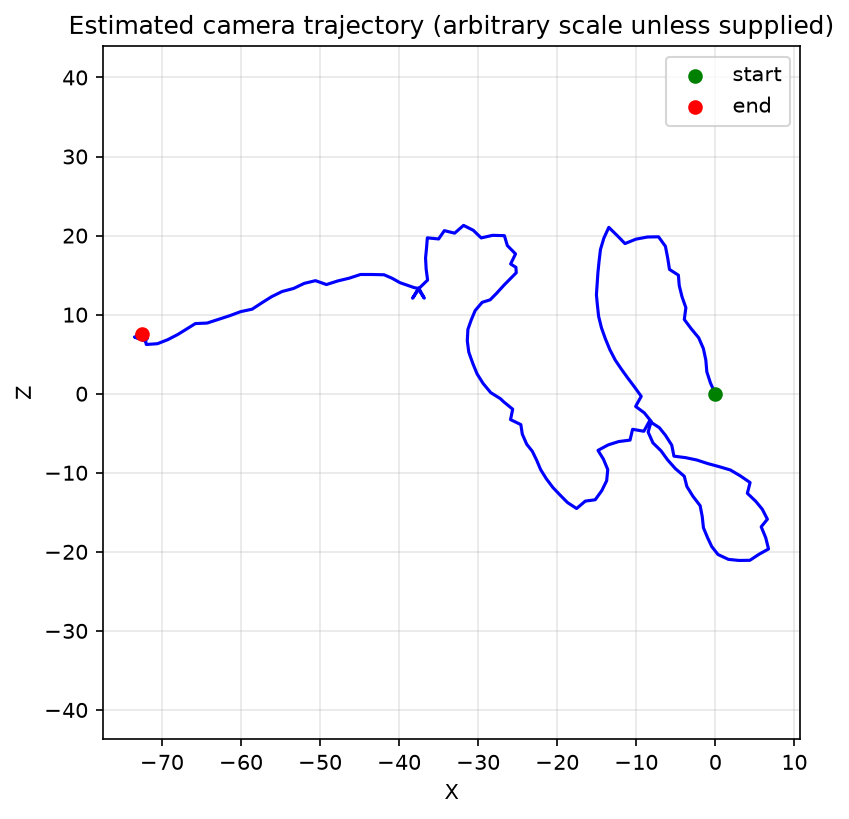
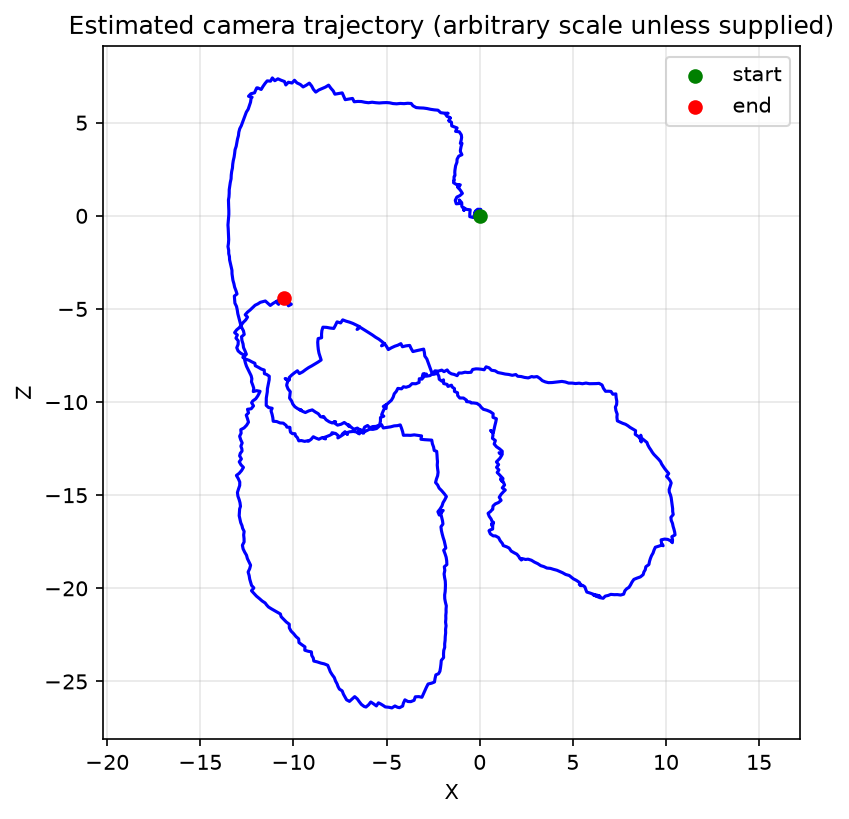
Loops are somewhat recognized
This is a rough draft that manages to retain decent performance and quality (Though it suffers from lag spikes)

diff --git a/orb-slam/monocular_vo_xFeat.py b/orb-slam/monocular_vo_xFeat.py
@@ -8,8 +8,30 @@ import numpy as np
 import matplotlib.pyplot as plt
 import torch
 from accelerated_features.modules.xfeat import XFeat
+#A KeyFrame, storing all the data from a single frame.
+class KeyFrame:
+    def __init__(
+        self,
+        id,
+        frame_number,
+        image,
+        pose_R,
+        pose_T,
+        keypoints,
+        descriptors,
+    ):
+        self.id = id
 
+        self.frame_number = frame_number
 
+        self.image = image.copy()
+
+        self.keypoints = keypoints
+
+        self.descriptors = descriptors
+        self.global_descriptor = descriptors.mean(dim=0) #Gets the mean of the descriptors
+        self.pose_R = pose_R.copy() #Rotation
+        self.pose_T = pose_T.copy() #Translation
 # --------------------------------------------------------------------------- #
 # Frame source abstraction: webcam index, video file, or folder of images
 # --------------------------------------------------------------------------- #
@@ -88,6 +110,10 @@ class MonocularVO:
         self.prev_kp = None
         self.prev_feats = None
 
+        self.prev_keyframe = None
+        self.keyframes = [] #stores all the keyframes in this list, to be looked out during loop closure checks
+        self.next_keyframe_id = 0
+
         self.cur_R = np.eye(3)
         self.cur_t = np.zeros((3, 1))
 
@@ -142,7 +168,7 @@ class MonocularVO:
     def _detect_xFeat(self, frame):
         output = self.xfeat.detectAndCompute(frame, top_k=4096)[0]
         kpts = self._keypoints_to_cv2(output['keypoints'])
-        return kpts, output['descriptors']
+        return kpts, output
     
     def _match_xFeat(self, feats0, feats1):
         match = self.xfeat.match(feats0, feats1)
@@ -160,20 +186,84 @@ class MonocularVO:
             if m.distance < self.ratio * n.distance:
                 good.append(m)
         return good
+    def _create_keyframe(self, frame_count, frame,kp,feats):
+        kf = KeyFrame(self.next_keyframe_id,frame_count,frame,self.cur_R,self.cur_t,kp,feats)
+        self.keyframes.append(kf)
+        self.prev_keyframe = kf
+        self.next_keyframe_id += 1
+    def _process_keyframes(self,n_candidates = 5, similarity_thresh = 0.85): #Compares and returns the best "candidates" for loop closure with a basic comparison algorithm as to not completely overload a system
+        current_frame = self.prev_keyframe
+        candidates = []
 
-    def process_frame(self, frame, scale=1.0):
+        for kf in self.keyframes:
+            if current_frame.id - kf.id < 50: #Prevents frames from too early on to be considered, also blocks the current frame from being compared to itself.
+                continue
+            score = cosine_similarity(
+                current_frame.global_descriptor,
+                kf.global_descriptor
+            )
+            if score >= similarity_thresh:
+                candidates.append((score, kf))
+        
+        candidates.sort(key=lambda x: x[0],reverse=True) #Sort by score, highest go in lowest index
+        return candidates[:n_candidates]
+    def _process_candidates(self,candidates):
+        current_frame = self.prev_keyframe #Grab the current keyframe
+        for (score, candidate) in candidates:
+            matches = self._match_xFeat(
+                candidate.descriptors,
+                current_frame.descriptors
+            )
+            if len(matches) < 100:
+                continue
+            pts_old = np.float32([candidate.keypoints[m.queryIdx].pt for m in matches])
+
+            pts_new = np.float32([current_frame.keypoints[m.trainIdx].pt for m in matches])
+            E, mask = cv2.findEssentialMat(
+                pts_new,
+                pts_old,
+                self.K,
+                method=cv2.RANSAC,
+                prob=0.999,
+                threshold=1.0
+            )
+            if E is None:
+                continue
+            num_inliers, R, t, pose_mask = cv2.recoverPose(
+                E,
+                pts_new,
+                pts_old,
+                self.K,
+                mask=mask
+            )
+
+            ratio = num_inliers / len(matches)
+
+            if num_inliers > 150 and ratio > 0.5:
+
+                print(
+                    f"LOOP FOUND! "
+                    f"KF {current_frame.id} -> KF {candidate.id} "
+                    f"({num_inliers}/{len(matches)})"
+                )
+
+                return candidate, R, t
+
+        return None
+
+    def process_frame(self, frame, frame_count, scale=1.0):
         """
         Processes one frame, updates the accumulated pose, and returns
         (kp, matches) for visualization purposes.
         """
         #with super points
         gray = self.to_gray(frame)
-        kp, feats = self._detect_xFeat(frame)
-
+        kp, output = self._detect_xFeat(gray)
+        feats = output['descriptors']
         if self.prev_gray is None:
             self.prev_gray, self.prev_kp, self.prev_feats = gray, kp, feats
             return kp, []
-        
+
         matches = self._match_xFeat(self.prev_feats, feats)
 
         if len(matches) < self.min_matches:
@@ -200,10 +290,45 @@ class MonocularVO:
             self.cur_R = R @ self.cur_R
             self.trajectory.append(self.cur_t.copy())
 
+        #Create new keyframes and store them
+        if len(self.keyframes) > 0:
+            translation = np.linalg.norm(
+                self.cur_t - self.prev_keyframe.pose_T
+            )
+            R_rel = self.cur_R @ self.prev_keyframe.pose_R.T
+
+            trace = np.trace(R_rel)
+
+            # Prevents errors
+            value = np.clip((trace - 1.0) / 2.0, -1.0, 1.0)
+
+            rotation = np.degrees(np.arccos(value)) #Rotation in degrees
+
+ 
+            if translation > 0.6 or rotation > 15: #If large enough change, then make a new keyframe (Translation may be unreliable at the moment, so too is rotation, but to a smaller degree)
+                print("Keyframe created: ", self.next_keyframe_id, " translation: ", translation, " rotation: ", int(rotation))
+                self._create_keyframe(frame_count,frame,kp,feats)
+                candidates = self._process_keyframes()
+                if candidates:
+                    result = self._process_candidates(candidates)
+        else:
+            print("Keyframe created: ", self.next_keyframe_id)
+            self._create_keyframe(frame_count,frame,kp,feats)
+
+
+        
+
         self.prev_gray, self.prev_kp, self.prev_feats = gray, kp, feats
         return kp, matches
+# --------------------------------------------------------------------------- #
+# Additional Math Helper Functions
+# --------------------------------------------------------------------------- #
+def cosine_similarity(a, b): #Returns a float from -1 -> 1, with 1 meaning identical, and -1 meaning opposite
 
+    a = a / np.linalg.norm(a)
+    b = b / np.linalg.norm(b)
 
+    return np.dot(a, b)
 # --------------------------------------------------------------------------- #
 # Visualization helpers
 # --------------------------------------------------------------------------- #
@@ -253,7 +378,7 @@ def save_matplotlib_plot(trajectory, out_path="trajectory.png"):
 # --------------------------------------------------------------------------- #
 def main():
     parser = argparse.ArgumentParser(description="Monocular Visual Odometry (ORB + Essential matrix)")
-    parser.add_argument("--source", default="vo_videos/vid2.mp4",
+    parser.add_argument("--source", default="vo_videos/vid1.mp4",
                          help="Webcam index (e.g. 0), path to a video file, or path to a folder of image frames")
     parser.add_argument("--fx", type=float, default=483.30/1.5, help="Focal length x (pixels)")
     parser.add_argument("--fy", type=float, default=483.69/1.5, help="Focal length y (pixels)")
@@ -286,7 +411,7 @@ def main():
                 break
             frame = cv2.resize(frame, (int(720*1/1.5), int(1280*1/1.5)))  # Resize for faster processing
 
-            kp, matches = vo.process_frame(frame, scale=args.scale)
+            kp, matches = vo.process_frame(frame, frame_count, scale=args.scale,)
             frame_count += 1
 
             if not args.no_display:

diff --git a/orb-slam/monocular_vo_superpoints.py b/orb-slam/monocular_vo_superpoints.py
@@ -262,7 +262,7 @@ def save_matplotlib_plot(trajectory, out_path="trajectory.png"):
 # --------------------------------------------------------------------------- #
 def main():
     parser = argparse.ArgumentParser(description="Monocular Visual Odometry (ORB + Essential matrix)")
-    parser.add_argument("--source", default="vo_videos/vid2.mp4",
+    parser.add_argument("--source", default="vo_videos/vid1.mp4",
                          help="Webcam index (e.g. 0), path to a video file, or path to a folder of image frames")
     parser.add_argument("--fx", type=float, default=483.30/1.5, help="Focal length x (pixels)")
     parser.add_argument("--fy", type=float, default=483.69/1.5, help="Focal length y (pixels)")
